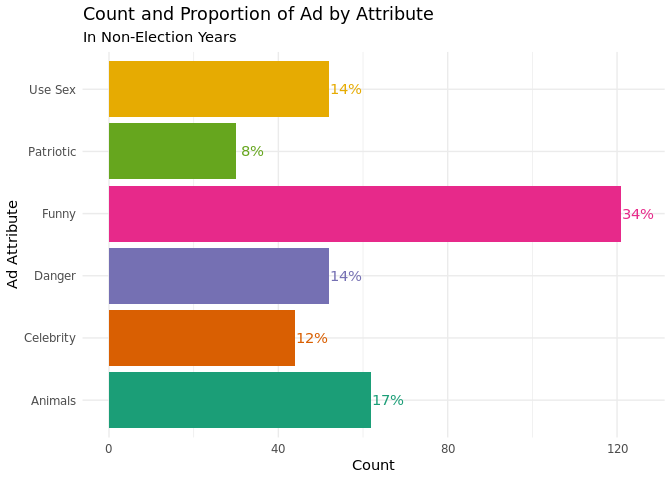
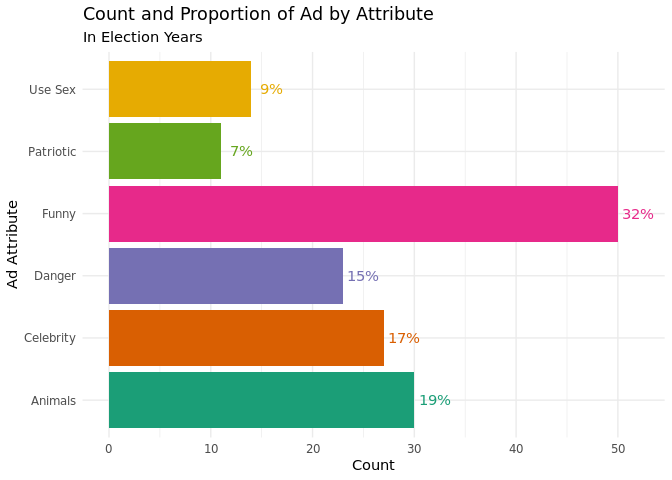
Made adjustments to Q2 Discussion and Plot positioning

diff --git a/README.md b/README.md
@@ -3,19 +3,19 @@ commercials
 ================
 by R-Mageddon
 
-    ## Warning in system("timedatectl", intern = TRUE): running command 'timedatectl'
-    ## had status 1
-
 ## Introduction
 
 Our `youtube` dataset contains a list of ads from the 10 brands that had
 the most advertisements in Super Bowls from 2000 to 2020, according to
-data from superbowl-ads.com, with matching videos found on YouTube. It
-was then analyzed by FiveThirtyEight staffers to come up with seven
-defining characteristics of a Super Bowl ad: `funny`, `danger`,
+data from superbowl-ads.com, with matching videos found on YouTube.
+These brands included Toyota, Bud Light, Kia, Coca-Cola, Hynudai,
+Budweiser, Pepsi, NFL, Doritos, and E-trade. It was then analyzed by the
+staff of FiveThirtyEight, an American website that focuses on opinion
+poll analysis, politics, economics, and sports blogging, to come up with
+seven defining characteristics of a Super Bowl ad: `funny`, `danger`,
 `use_sex`, `show_product_quickly`, `celebrity`, `patriotic`, `animals`,
 which are represented as boolean variables. Furthermore, we are also
-given the `view_count`, `like_count`, `dislike_count`, `favorite_count`,
+given the `view_count`, `like_count`, `dislike_count`,`favorite_count`,
 `comment_count`, `description`, and `title` for each ad.
 
 ## Question 1：What is the trend of the ads’ content and audience preferences over the years?
@@ -350,7 +350,10 @@ cleaning the text (for e.g turning all words lower, removing
 punctuation, removing numbers) which was done by the `tm` library. We
 also performed sentiment analysis on the words using the
 `get_sentiment()` function and colored the word cloud based on the
-words’ sentiment score.
+words’ sentiment score. We used the `syuzhet` library for the
+`get_sentiment` function since it assigned each word a sentiment score
+and had the widest range of words that could be assigned a score i.e
+largest word dictionary.
 
 To analyze the content aspect, we decided to opt for a column graph with
 percentage values of each content category as labels of the
@@ -371,51 +374,71 @@ youtube <- youtube %>%
 test <- youtube %>%
   filter(election_years == 1) %>%
   select(title)
-docs <- VCorpus(VectorSource(test))
-docs <- docs %>%
-  # Removing numbers
-  tm_map(removeNumbers) %>%
-  # Removing punctuation
-  tm_map(removePunctuation) %>%
-  # Removing whitespace
-  tm_map(stripWhitespace)
-docs <- tm_map(docs, content_transformer(tolower))
-docs <- tm_map(docs, removeWords, stopwords("english"))
-# Removing words that contain brand names
-docs <- tm_map(
-  docs,
-  removeWords,
-  c(
-    "super",
-    "bowl",
-    "commercial",
-    "superbowl",
-    "bud",
-    "light",
-    "budweiser",
-    "pepsi",
-    "hyundai",
-    "doritos",
-    "coke",
-    "cocacola",
-    "cola",
-    "coca",
-    "kia",
-    "toyota"
+
+text_cleaner <- function(testvector,freqCheck) {
+  docs <- VCorpus(VectorSource(testvector))
+  docs <- docs %>%
+    # Removing numbers
+    tm_map(removeNumbers) %>%
+    # Removing punctuation
+    tm_map(removePunctuation) %>%
+    # Removing whitespace
+    tm_map(stripWhitespace)
+  docs <- tm_map(docs, content_transformer(tolower))
+  docs <- tm_map(docs, removeWords, stopwords("english"))
+  # Removing words that contain brand names
+  docs <- tm_map(
+    docs,
+    removeWords,
+    c(
+      "super",
+      "bowl",
+      "commercial",
+      "superbowl",
+      "bud ",
+      "light",
+      "budweiser",
+      "pepsi",
+      "hyundai",
+      "doritos",
+      "coke",
+      "cocacola",
+      "cola",
+      "coca",
+      "kia",
+      "toyota",
+      "etrade",
+      "nfl"
+    )
   )
-)
-dtm <- TermDocumentMatrix(docs)
-matrix <- as.matrix(dtm)
-words <- sort(rowSums(matrix), decreasing = TRUE)
-election_df <- data.frame(word = names(words), freq = words)
-election_df <- election_df %>%
-  mutate(angle = sample(-45:45, nrow(election_df), replace = TRUE)) %>%
-  # Package to get sentiment scores for each word in the dataset
-  mutate(sentiment = get_sentiment(word, "syuzhet"))
+  dtm <- TermDocumentMatrix(docs)
+  matrix <- as.matrix(dtm)
+  words <- sort(rowSums(matrix), decreasing = TRUE)
+  election_df <- data.frame(word = names(words), freq = words)
+  election_df <- election_df %>%
+    mutate(angle = sample(-45:45, nrow(election_df), replace = TRUE)) %>%
+      filter(freq >= freqCheck) %>%
+    # Package to get sentiment scores for each word in the dataset
+    mutate(sentiment = get_sentiment(word, "syuzhet"))
+  return(election_df)
+  
+}
 ```
 
 ``` r
-election_df %>%
+election_1 <- youtube %>%
+  filter(election_years == 1) %>%
+  select(title)
+
+election_0 <- youtube %>%
+  filter(election_years == 0) %>%
+  select(title)
+
+election_wc <- text_cleaner(election_1,1)
+
+nelection_wc <- text_cleaner(election_0,2)
+
+election_wc %>%
   ggplot(aes(
     label = word,
     color = sentiment,
@@ -429,7 +452,8 @@ election_df %>%
   labs(
     title = "Election Year Ad Title Word Cloud",
     subtitle = "Colored by Sentiment
-      Bluer for postive sentiments
+      Bluer for postive sentiment
+      Brown for neutral sentiment
       Yellower for negative sentiment"
   )
 ```
@@ -437,59 +461,7 @@ election_df %>%
 ![](README_files/figure-gfm/election-wordcloud-viz-1.png)<!-- -->
 
 ``` r
-# Isolating the title variable
-no_election_title <- youtube %>%
-  filter(election_years == 0) %>%
-  select(title)
-# Data Wrangling steps
-docs <- VCorpus(VectorSource(no_election_title))
-docs <- docs %>%
-  # Removing numbers
-  tm_map(removeNumbers) %>%
-  # Removing punctuation
-  tm_map(removePunctuation) %>%
-  # Removing whitespace
-  tm_map(stripWhitespace)
-# transforming words to lowercase
-docs <- tm_map(docs, content_transformer(tolower))
-# removing words that contain brand names
-docs <- tm_map(
-  docs,
-  removeWords,
-  c(
-    "super",
-    "bowl",
-    "commercial",
-    "superbowl",
-    "bud",
-    "light",
-    "budweiser",
-    "pepsi",
-    "hyundai",
-    "doritos",
-    "coke",
-    "cocacola",
-    "cola",
-    "coca",
-    "the",
-    "kia",
-    "toyota"
-  )
-)
-# Creating df that can be used by ggwordcloud
-dtm <- TermDocumentMatrix(docs)
-matrix <- as.matrix(dtm)
-words <- sort(rowSums(matrix), decreasing = TRUE)
-non_election_df <- data.frame(word = names(words), freq = words)
-# Adding the sentiment score variable
-non_election_df <- non_election_df %>%
-  mutate(angle = sample(-45:45, nrow(non_election_df), replace = TRUE)) %>%
-  filter(freq >= 2) %>%
-  mutate(sentiment = get_sentiment(word, "syuzhet"))
-```
-
-``` r
-non_election_df %>%
+nelection_wc %>%
   ggplot(aes(
     label = word,
     color = sentiment,
@@ -503,12 +475,13 @@ non_election_df %>%
   labs(
     title = "Non-election Year Ad Title Word Cloud",
     subtitle = "Colored by Sentiment
-      Bluer for postive sentiments
+      Bluer for postive sentiment
+      Brown for neutral sentiment
       Yellower for negative sentiment"
   ) 
 ```
 
-![](README_files/figure-gfm/non-election-wordcloud-viz-1.png)<!-- -->
+![](README_files/figure-gfm/election-wordcloud-viz-2.png)<!-- -->
 
 ``` r
 # Creating variable with election, using pivot_longer to get attributes in the
@@ -523,7 +496,7 @@ election_yr <- youtube %>%
     n
   )) * 100), "%", sep = ""))
 # Creating the plot
-election_yr %>%
+elecyr <-election_yr %>%
   ggplot(aes(y = name, x = n, fill = name)) +
   geom_col(show.legend = FALSE) +
   geom_text(aes(label = perc, color = name),
@@ -546,8 +519,6 @@ election_yr %>%
                               "Animals")))
 ```
 
-![](README_files/figure-gfm/election-col-plot-1.png)<!-- -->
-
 ``` r
 # Creating variable with no election, using pivot_longer to get attributes in the
 # same column, and creating a percentage variable
@@ -561,7 +532,7 @@ no_election_yr <- youtube %>%
     n
   )) * 100), "%", sep = ""))
 # No Election year col vizualization
-no_election_yr %>%
+nelecyr <- no_election_yr %>%
   ggplot(aes(y = name, x = n, fill = name)) +
   geom_col(show.legend = FALSE) +
   geom_text(aes(label = perc, color = name),
@@ -582,42 +553,45 @@ no_election_yr %>%
                               "Danger",
                               "Celebrity",
                               "Animals")))
+
+elecyr
 ```
 
 ![](README_files/figure-gfm/non-election-col-plot-1.png)<!-- -->
 
+``` r
+nelecyr
+```
+
+![](README_files/figure-gfm/non-election-col-plot-2.png)<!-- -->
+
 ### Discussion
 
-Question 1 includes two parts: ads attribute proportion and audience
-preferences. We first looked at audience preference of various
-attributes in ads. In certain years, audience feel strongly about ads
-that contain specific attributes. In 2010, ads that contain `animals`
-element are liked more than 3 times compared to ads that do not contain
-animals. Ads that use sexuality are far more liked in 2004 but are less
-liked in 2015. In 2002, the ads that have no humorous element are liked
-almost 3 times as ads that have humorous element.
+We can divide the discussion of our visualizations into two parts:
+comparison by description and comparison by content.
 
-The stacked area chart shows changes of the proportion of ads attributes
-over the years. `funny` and `show_product_quickly` take up the highest
-proportion among the seven video attributes. `patriotic` takes up the
-least proportion overall. In fact, most points of intersection, which
-represents no use of the corresponding attribute in one year, appear in
-the `patriotic` section.
+When comparing our two words clouds, it immediately becomes clear that
+there is some overlap in the words used in Superbowl Ad titles. These
+include, winner, new, and nfl. Similarly, there does not seem to be any
+major difference in the overall sentiment makeup of these words. We can
+gauge this by observing that both the word clouds have a few blue words
+(indicating positive sentiment), very few yellow words (indicating
+negative sentiment), and majority brown words (indicating neutral
+sentiment). This goes on to indicate that there is very little
+difference in the titles of superbowl ads in election years compared to
+non-election years. This result was surprising since our team was
+expecting the election titles to contain more patriotic words such as
+“America”, “Freedom”, and “Liberty” but it appears as if the ad titles
+are not significantly affected by election and non-election years.
 
-Comparing the line graphs with the stacked area plot, we discover
-interesting matches and unmatches between attributes proportion and
-audience reactions toward them. For example, a corresponding match
-appears in attribute `celebrity`, where celebrity-included ads become
-popular since 2015, which coincides with the increasing audience
-preference. However, things are not always matched. When the proportion
-of `funny` videos grow from 2000 to 2003, audience tend to prefer the
-videos that do not contain humor. Similarly, `danger` in the last 5
-years has narrowed its width in the stacked area chart while audience
-tends to hit like more often for ads containing danger. There can be
-many underlying reasons, but our guesses reside on the different
-expectations between audience and ad companies, or relevant regulations
-and policies that prevent companies from catering to their audience all
-the time.
+We observed a similar relation when analyzing the content of election
+and non-election year ads. For both these categories, there seemed to be
+a marginal difference in the attribute makeup, indicating that even the
+content of ads was very similar in election and non-election years.
+However, it was interesting to note that `use_sex` attribute dropped
+from 14% in non-election years to 9% in election years. While this could
+be indicative of a slight variation in content, it more more likely that
+this change was a coincidence.
 
 ## Presentation
 
